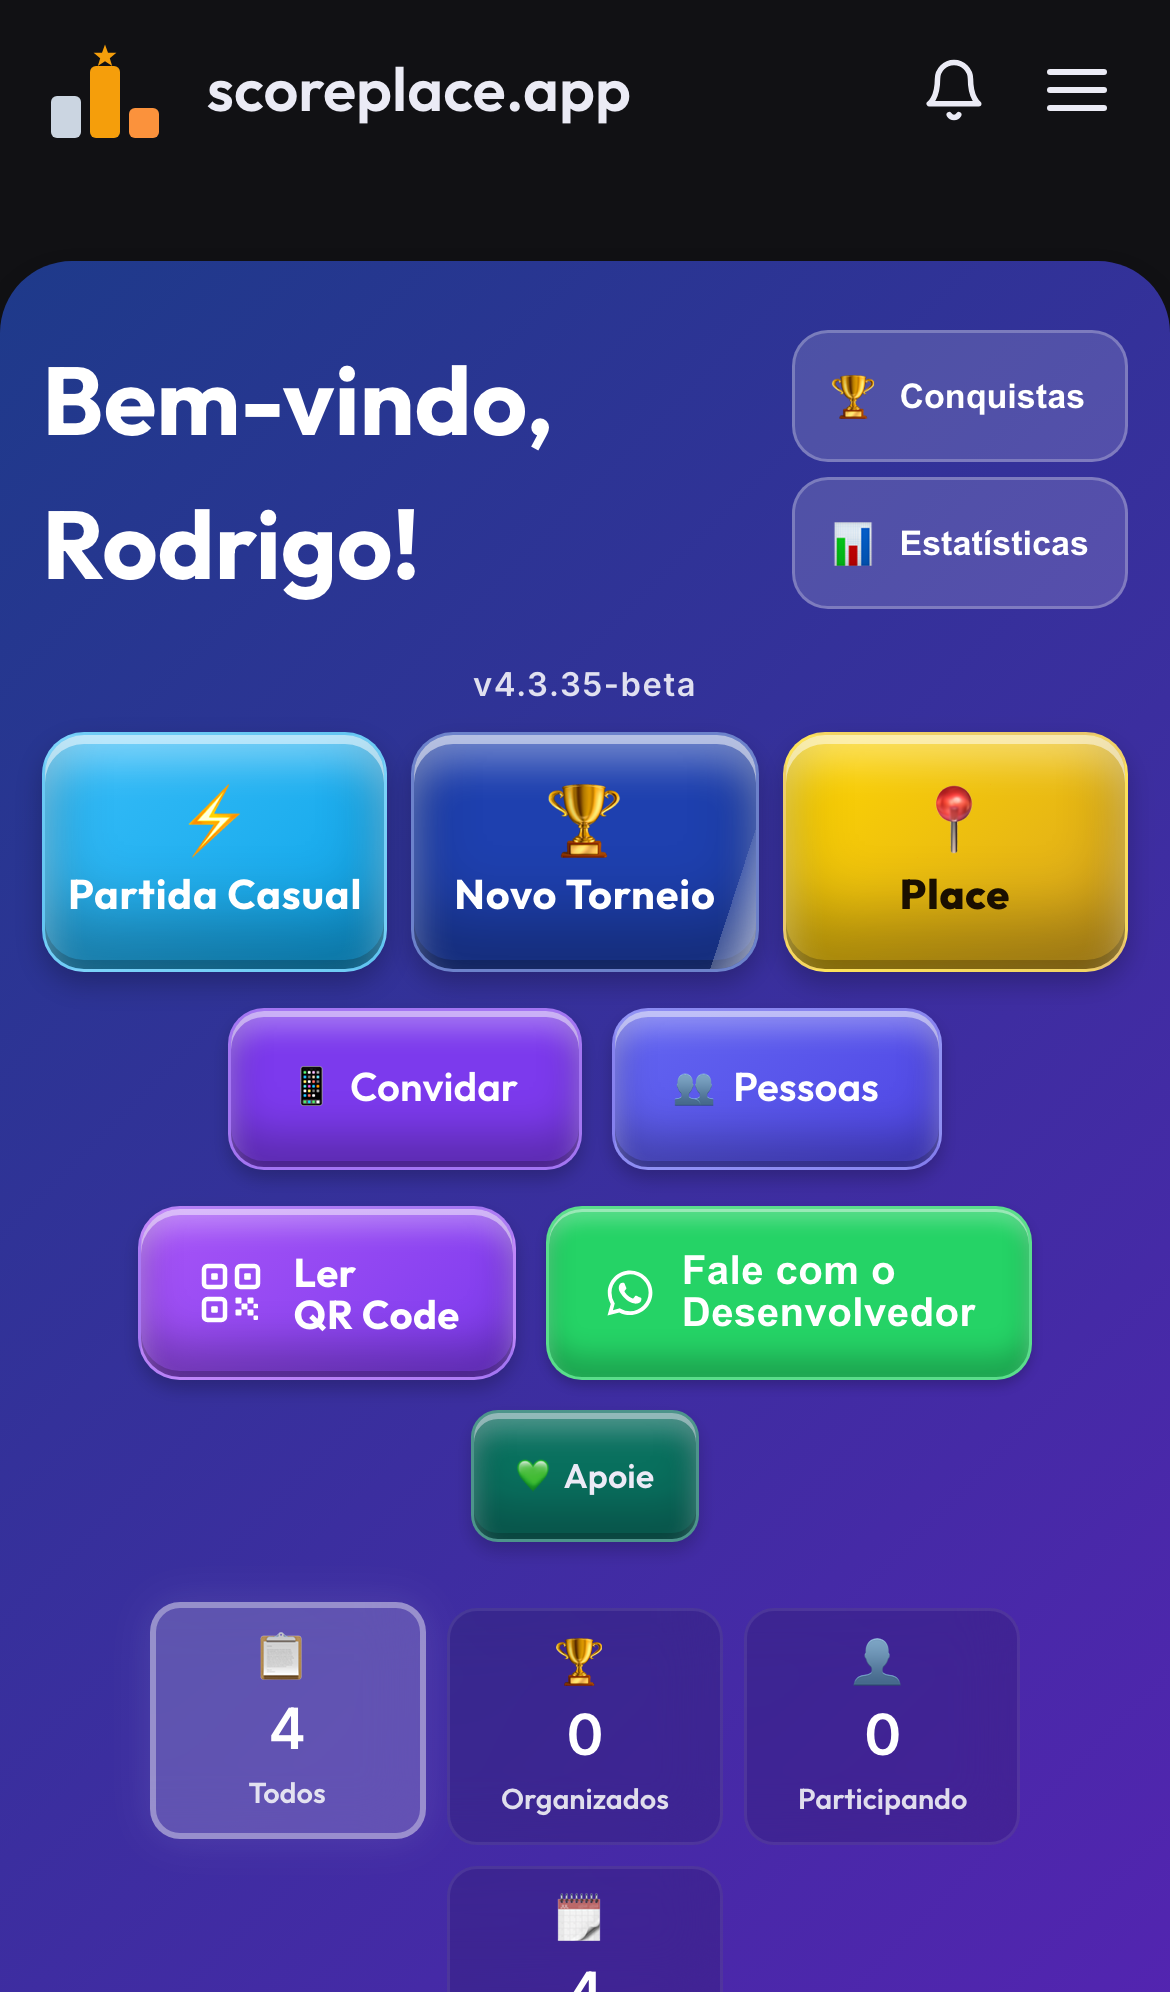
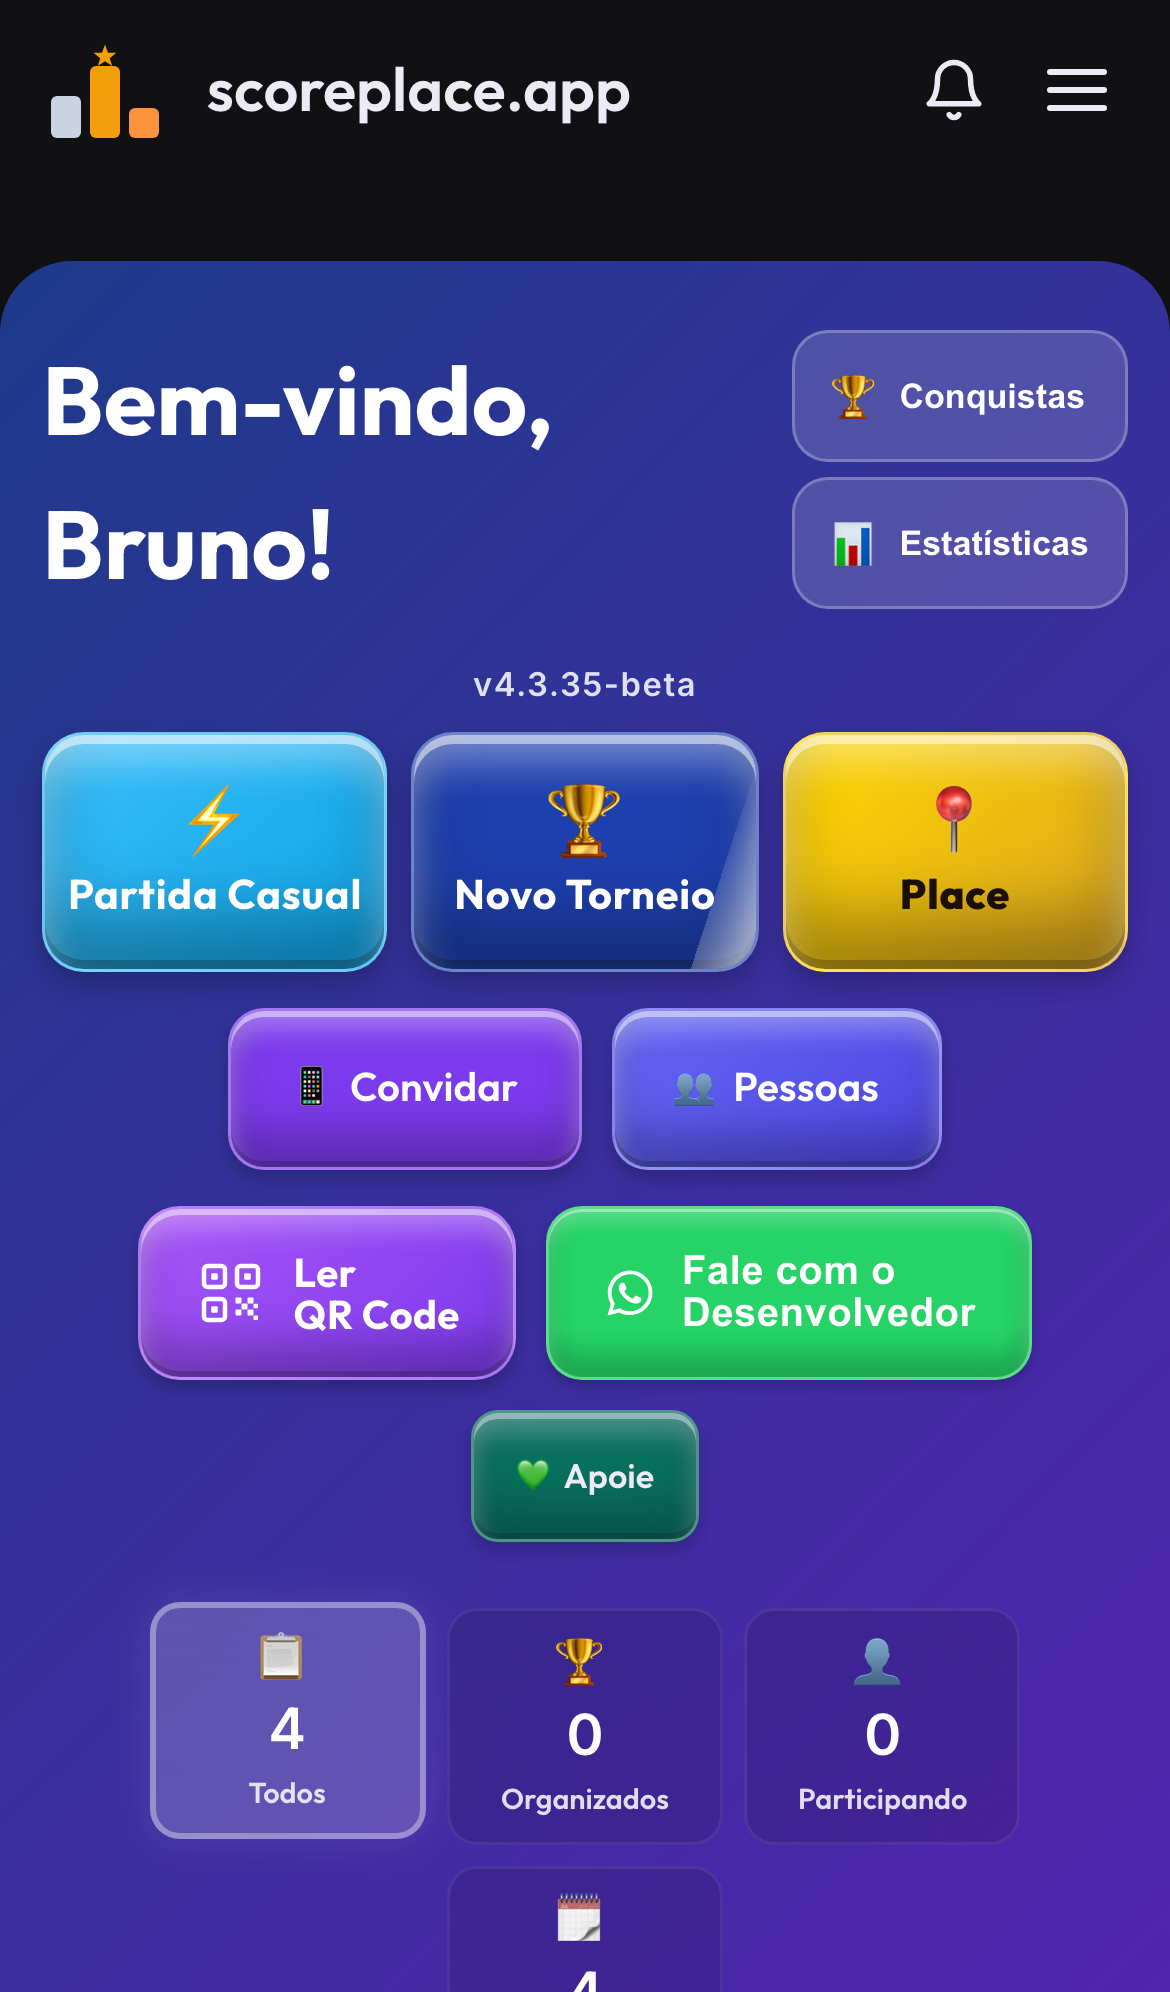
assets(store): +Place e Estatísticas; usuário fake genérico (6 telas)
Adiciona phone-05-place (mapa + locais preferidos) e phone-06-estatisticas
(DESEMPENHO populado via matchHistory fake). Usuário renomeado p/ genérico
'Bruno Costa'. store-shots.js: fecha overlay do placar entre telas, injeta
preferredLocations + scoreplace_casual_history_v2 fake.

Changed region(s): [[0.0615, 0.249, 0.3692, 0.3112], [0.5846, 0.4046, 0.6462, 0.498]]

diff --git a/tools/store-shots.js b/tools/store-shots.js
@@ -30,9 +30,10 @@ function serve() {
 const FAKE_SESSION = () => {
   window.Capacitor = { isNativePlatform: () => true, getPlatform: () => 'ios' };
   const AS = window.AppStore;
-  AS.currentUser = { uid: 'demo-uid', email: '[email redacted]', displayName: 'Rodrigo Barth',
+  AS.currentUser = { uid: 'demo-uid', email: '[email redacted]', displayName: 'Bruno Costa',
     photoURL: '', plan: 'free', friends: ['a','b','c','d','e'], preferredSports: ['Beach Tennis','Padel'],
-    notifyLevel: 'todas', gender: 'masculino', city: 'São Paulo' };
+    notifyLevel: 'todas', gender: 'masculino', city: 'São Paulo',
+    preferredLocations: [ { label: 'Arena Beach Sports', lat: -23.561, lng: -46.656 }, { label: 'Clube de Tênis Central', lat: -23.588, lng: -46.632 } ] };
   window.currentUser = AS.currentUser;
   window._authStateResolved = true;
   const st = document.createElement('style');
@@ -138,7 +139,47 @@ async function main() {
     await page.evaluate(() => { document.querySelectorAll('[data-install-app-btn]').forEach(b => b.remove()); });
     await shot(page, 'phone-04-placar-ao-vivo.png');
     console.log('  match:', mid);
+    // fecha o overlay do placar (senão cobre as próximas telas)
+    await page.evaluate(() => {
+      if (typeof window._closeLiveScoring === 'function') { try { window._closeLiveScoring(); } catch (e) {} }
+      ['live-scoring-overlay', 'casual-match-overlay'].forEach(id => { const el = document.getElementById(id); if (el) el.remove(); });
+    });
+    await page.waitForTimeout(400);
   }
+
+  // ---- 5. PLACE (locais preferidos) ----
+  console.log('05 place');
+  await goHash(page, '#place');
+  await page.waitForTimeout(1800); // deixa o auto-geolocate falhar (headless) e cair na seção preferidos
+  await page.evaluate(() => { document.querySelectorAll('[data-install-app-btn]').forEach(b => b.remove()); window.scrollTo(0, 0); });
+  await shot(page, 'phone-05-place.png');
+
+  // ---- 6. ESTATÍSTICAS (torneios fake → stats populado) ----
+  console.log('06 estatísticas');
+  await goHash(page, '#dashboard');
+  await page.evaluate(() => {
+    const AS = window.AppStore;
+    const you = AS.currentUser.displayName; // 'Bruno Costa'
+    // registros no schema do matchHistory persistente (players[].uid === uid)
+    const rec = (i, type, win, myP, oP, myG, oG, myS, oS) => ({
+      matchType: type, winnerTeam: win ? 1 : 2, sport: (i % 3 === 0 ? 'Padel' : 'Beach Tennis'),
+      finishedAt: '2026-06-' + String(10 + i).padStart(2, '0') + 'T10:00:00Z',
+      players: [{ uid: 'demo-uid', team: 1, name: you }, { uid: 'opp' + i, team: 2, name: 'Jogador ' + String(i).padStart(2, '0') }],
+      stats: { team1: { points: myP, games: myG, sets: myS }, team2: { points: oP, games: oG, sets: oS } }
+    });
+    const recs = [
+      rec(1, 'casual', true, 24, 18, 6, 3, 1, 0), rec(2, 'casual', true, 28, 22, 7, 5, 1, 0),
+      rec(3, 'casual', false, 16, 24, 3, 6, 0, 1), rec(4, 'casual', true, 24, 15, 6, 2, 1, 0),
+      rec(5, 'tournament', true, 24, 20, 6, 4, 1, 0), rec(6, 'tournament', true, 24, 17, 6, 3, 1, 0),
+      rec(7, 'tournament', false, 19, 24, 4, 6, 0, 1), rec(8, 'tournament', true, 24, 21, 6, 4, 1, 0),
+      rec(9, 'tournament', true, 22, 20, 7, 5, 1, 0)
+    ];
+    try { localStorage.setItem('scoreplace_casual_history_v2', JSON.stringify(recs)); } catch (e) {}
+    if (typeof window._showPlayerStats === 'function') window._showPlayerStats(you);
+  });
+  await page.waitForTimeout(1400);
+  await page.evaluate(() => { document.querySelectorAll('[data-install-app-btn]').forEach(b => b.remove()); });
+  await shot(page, 'phone-06-estatisticas.png');
 
   await browser.close();
   server.close();